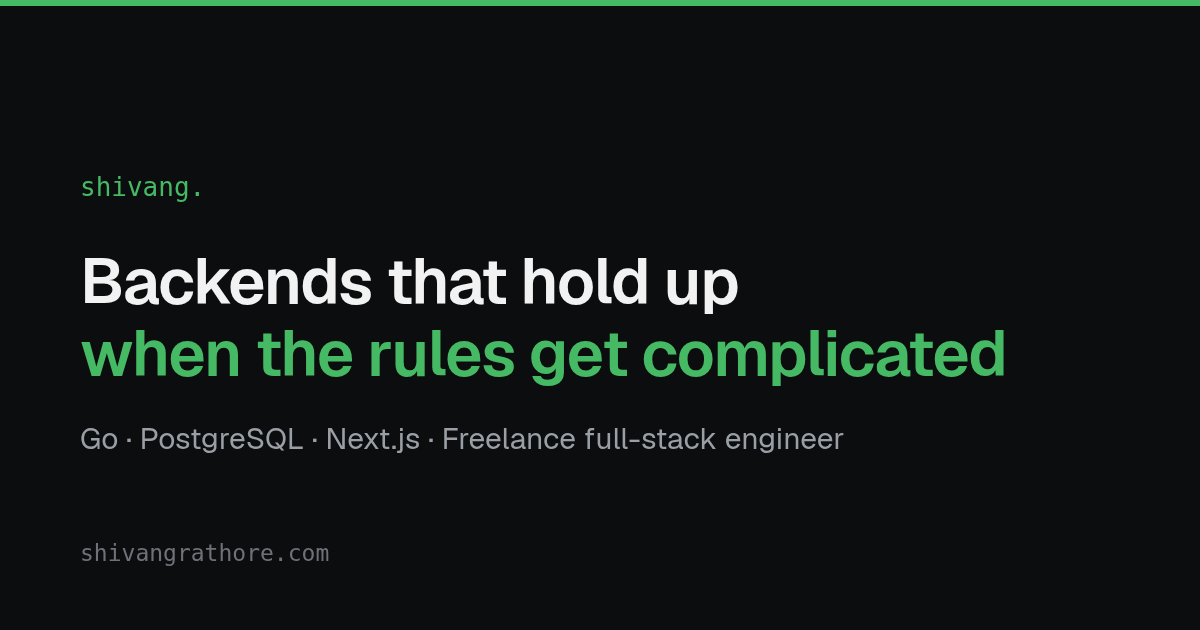
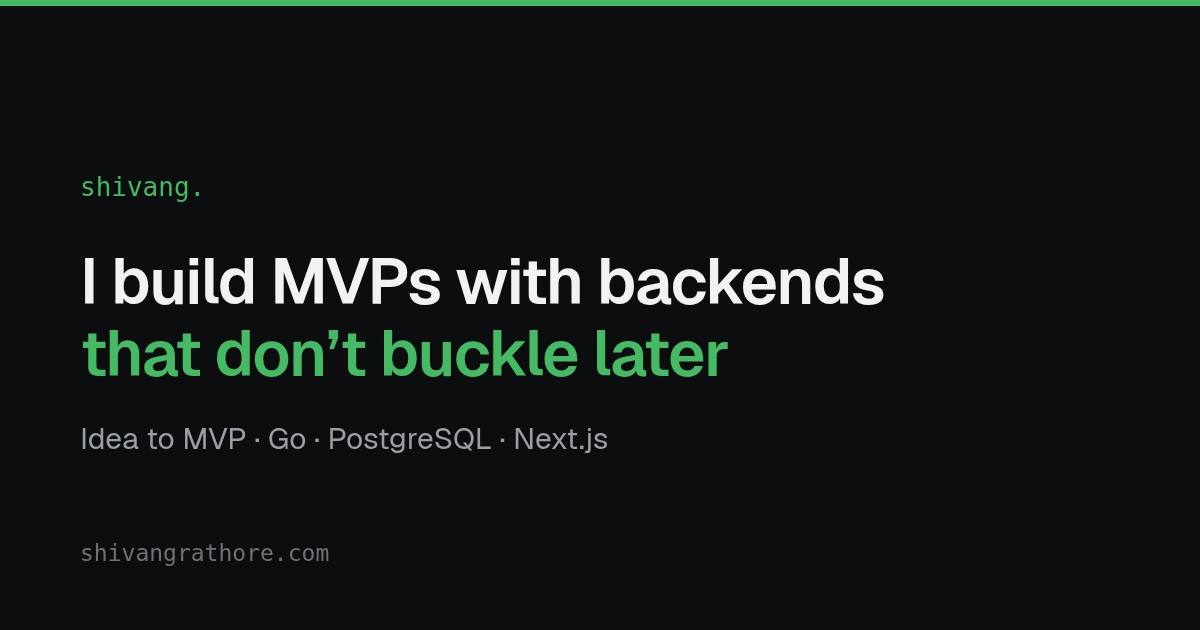
feat(hero): lead with MVPs, keep the backend as the differentiator
The hero said "I build backends" while the top service was Idea to MVP, so
a founder with an idea read the first line and concluded the site was not
for them.

Headline, homepage title, meta description and the social card now all say
the same thing. The backend depth stays as the reason to pick this over any
other MVP shop rather than as the opening claim.

Changed region(s): [[0.0617, 0.5127, 0.8633, 0.6333], [0.0617, 0.3921, 0.74, 0.5127], [0.0617, 0.6635, 0.7092, 0.7238]]

diff --git a/src/lib/constants.ts b/src/lib/constants.ts
@@ -1,6 +1,6 @@
 export const SITE_TITLE = "Shivang Rathore";
 export const SITE_DESCRIPTION =
-  "Freelance full-stack engineer. I build Go backends, Next.js products and real-time systems for founders and product teams.";
+  "Freelance full-stack engineer. I take founders from idea to MVP and build the Go and PostgreSQL backends that keep it standing as it grows.";
 export const BASE_URL = "https://shivangrathore.com";
 
 export const GITHUB_URL = "https://github.com/shivangrathore";
